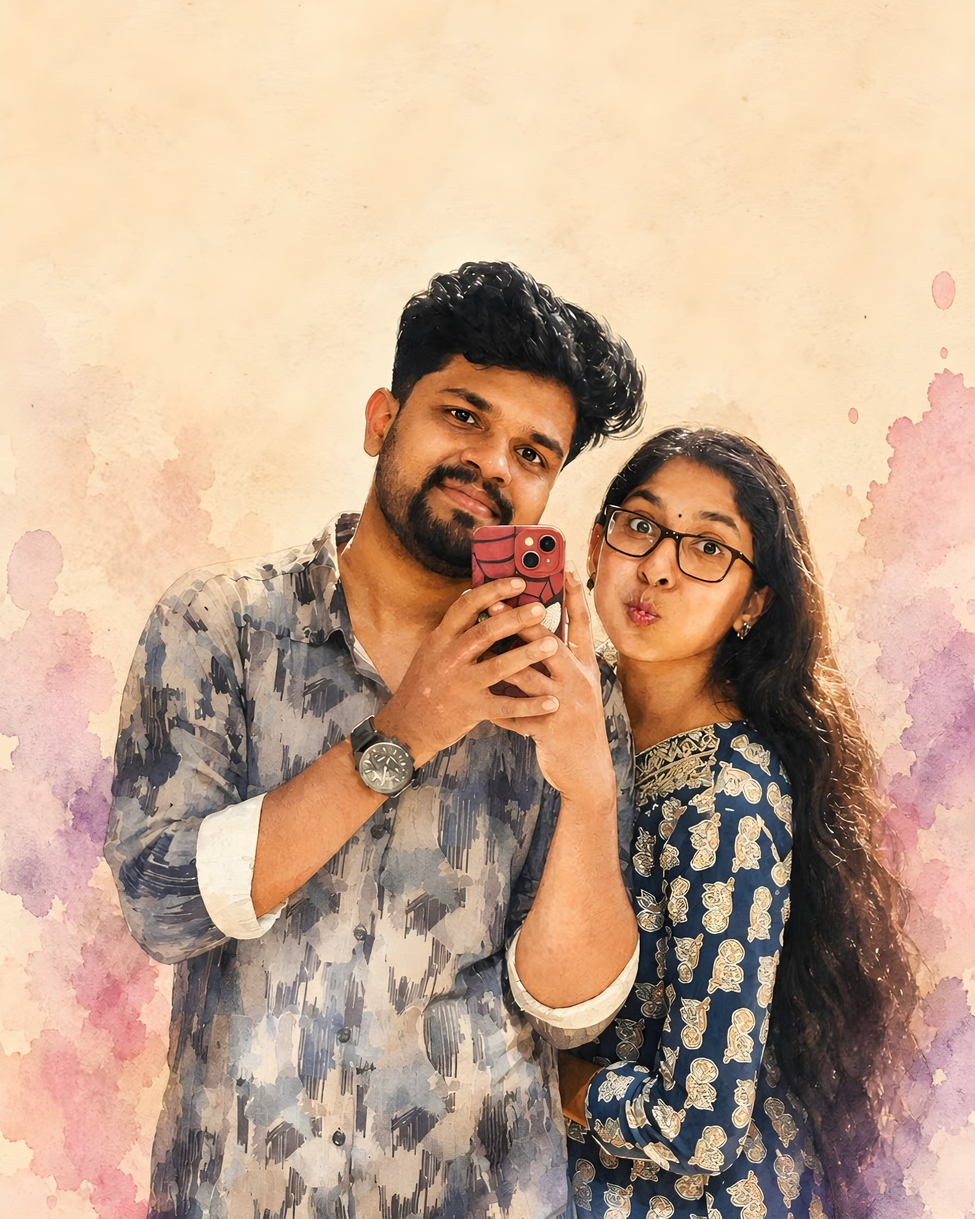
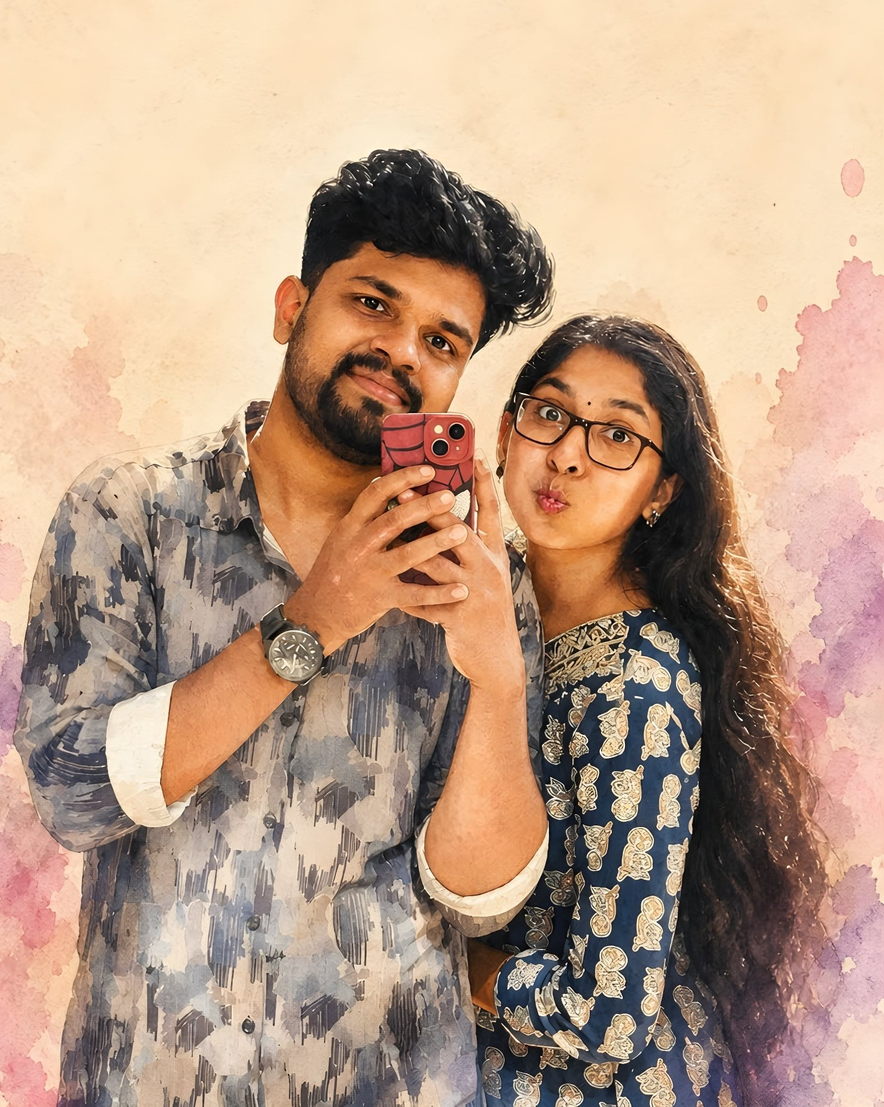
fix: resolve safari transparent preloader and dvh issues

diff --git a/index.html b/index.html
@@ -126,6 +126,7 @@
     .hero {
       position: relative;
       min-height: 100vh;
+      min-height: 100dvh;
       display: flex;
       flex-direction: column;
       align-items: center;
@@ -585,6 +586,21 @@
       position: relative;
     }
 
+    /* Love symbol on the date */
+    .cal-day.highlight::after {
+      content: '❤';
+      position: absolute;
+      top: -6px;
+      right: -6px;
+      font-size: 11px;
+      animation: heartbeat 1.5s infinite;
+    }
+
+    @keyframes heartbeat {
+      0%, 100% { transform: scale(1) rotate(15deg); }
+      50% { transform: scale(1.25) rotate(15deg); }
+    }
+
     /* SCHEDULE */
     .schedule-list {
       list-style: none;
@@ -645,7 +661,7 @@
     }
     
     @media (max-width: 500px) {
-      .masonry-grid { column-count: 2; column-gap: 10px; } /* Reverted to 2 columns on phone */
+      .masonry-grid { column-count: 3; column-gap: 6px; }
     }
     
     .masonry-item {
@@ -1158,7 +1174,9 @@
     .preloader {
       position: fixed;
       inset: 0;
-      background: radial-gradient(ellipse at 20% 50%, rgba(184, 134, 11, .1) 0%, transparent 60%), radial-gradient(ellipse at 80% 50%, rgba(139, 26, 26, .08) 0%, transparent 60%), var(--cream);
+      background-color: var(--cream);
+      background-image: radial-gradient(ellipse at 20% 50%, rgba(184, 134, 11, .1) 0%, transparent 60%), 
+                        radial-gradient(ellipse at 80% 50%, rgba(139, 26, 26, .08) 0%, transparent 60%);
       display: flex;
       flex-direction: column;
       align-items: center;
